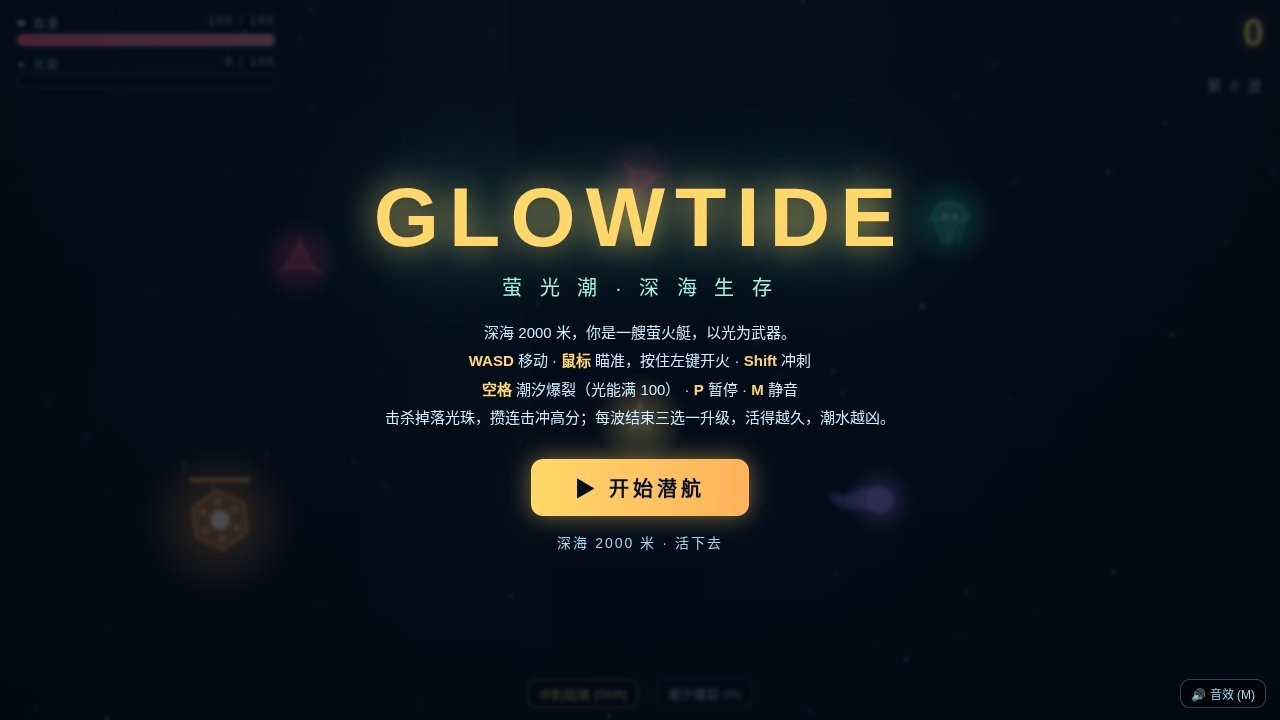
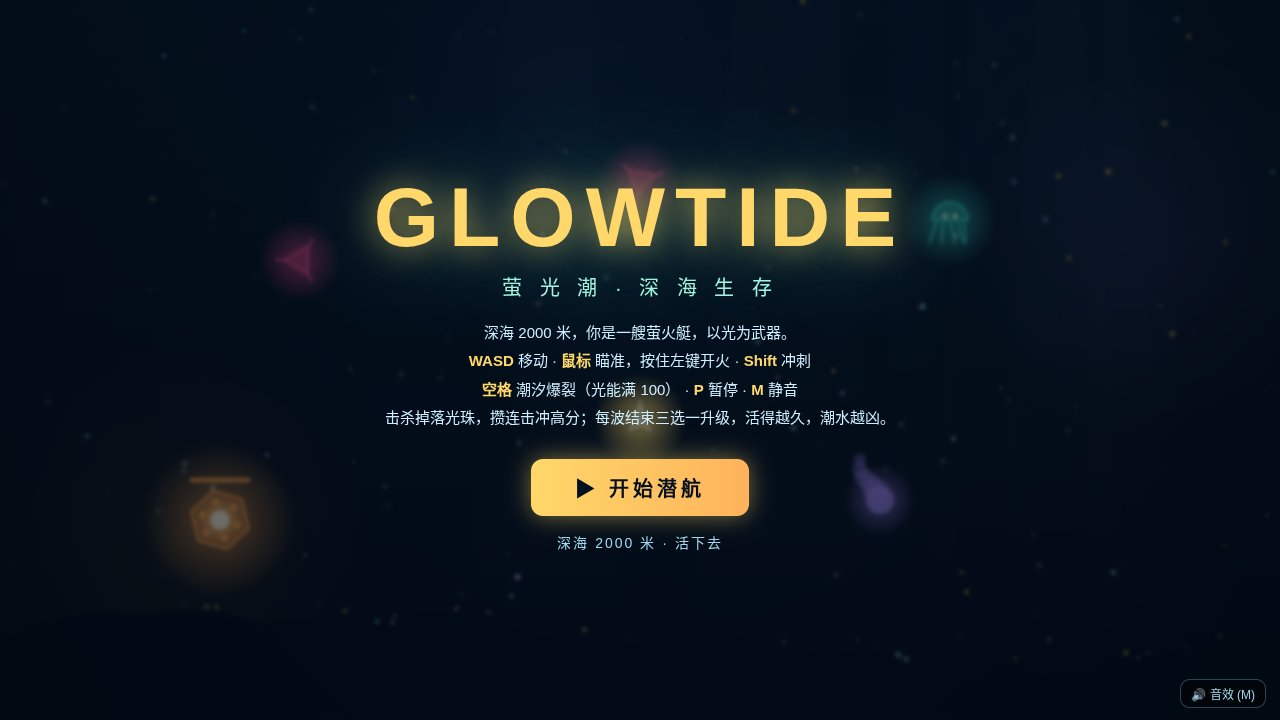
Polish round: richer backdrop, HUD hidden on full screens, punchier combat, faster early waves
- world: 170 motes, 5 pre-rendered bioluminescent blooms, seabed ridge
  with glowing anemones, stronger god-rays, softer vignette
- render: bullet tracers, shockwave rings now filled energy discs
- hud: chrome hidden on title/upgrade/game-over screens (was bleeding
  through the overlays in screenshots); title overlay more transparent
- waves: wave 1 has 8 urchins (was 6), faster spawn pacing, pairs from
  wave 3; orbs give 10 energy (was 8) so the tide burst comes online
  in wave 2; wave-clear gold ring + sparks
- main: live title scene now drifts all 5 enemy kinds (was 3)
- fix floating-text overlap: smaller damage numbers, kill score higher

diff --git a/game/src/world.js b/game/src/world.js
@@ -9,17 +9,58 @@ export class World {
   constructor(rng) {
     this.rng = rng;
     this.motes = [];
-    for (let i = 0; i < 90; i++) {
+    for (let i = 0; i < 170; i++) {
       this.motes.push({
         x: rng.range(0, WORLD_W), y: rng.range(0, WORLD_H),
-        r: rng.range(0.6, 2.4), speed: rng.range(4, 16),
+        r: rng.range(0.6, 3.2), speed: rng.range(4, 16),
         drift: rng.range(-6, 6), phase: rng.range(0, TAU),
         hue: rng.pick(['#7dd8ff', '#9ff5e0', '#ffd76a', '#c9b8ff']),
       });
     }
-    this.rays = [];
+    // distant bioluminescent blooms: huge soft glows drifting far below,
+    // they give the water column depth instead of flat navy.
+    // Each bloom is pre-rendered once to an offscreen sprite (like the
+    // glow sprites in render.js) so frames stay cheap.
+    this.blooms = [];
+    const bloomHues = ['#1d6f8e', '#1a7a6a', '#7a5fb0', '#8e6a1d', '#1d5f8e'];
     for (let i = 0; i < 5; i++) {
-      this.rays.push({ x: rng.range(100, 1180), w: rng.range(40, 110), a: rng.range(0.02, 0.05), phase: rng.range(0, TAU) });
+      const r = rng.range(130, 260);
+      const hue = bloomHues[i % bloomHues.length];
+      const c = document.createElement('canvas');
+      c.width = r * 2; c.height = r * 2;
+      const g = c.getContext('2d');
+      const grad = g.createRadialGradient(r, r, 0, r, r, r);
+      grad.addColorStop(0, hue + '2e');
+      grad.addColorStop(1, hue + '00');
+      g.fillStyle = grad;
+      g.fillRect(0, 0, r * 2, r * 2);
+      this.blooms.push({
+        x: rng.range(80, WORLD_W - 80), y: rng.range(90, WORLD_H - 120),
+        r, speed: rng.range(3, 8),
+        phase: rng.range(0, TAU), hue, sprite: c,
+      });
+    }
+    // seabed ridge: precomputed wavy silhouette along the bottom, with
+    // tiny glowing anemone dots on its crest
+    this.ridge = [];
+    let ry = WORLD_H - rng.range(46, 70);
+    for (let x = -20; x <= WORLD_W + 20; x += 40) {
+      ry += rng.range(-14, 14);
+      ry = Math.max(WORLD_H - 110, Math.min(WORLD_H - 30, ry));
+      this.ridge.push({ x, y: ry });
+    }
+    this.anemones = [];
+    for (let i = 0; i < 26; i++) {
+      const rp = this.ridge[Math.floor(rng.range(0, this.ridge.length))];
+      this.anemones.push({
+        x: rp.x + rng.range(-16, 16), y: rp.y - rng.range(2, 10),
+        r: rng.range(1.2, 2.6), phase: rng.range(0, TAU),
+        hue: rng.pick(['#7df9ff', '#ffd76a', '#ff8fd0', '#9ff5e0']),
+      });
+    }
+    this.rays = [];
+    for (let i = 0; i < 6; i++) {
+      this.rays.push({ x: rng.range(100, 1180), w: rng.range(40, 110), a: rng.range(0.03, 0.06), phase: rng.range(0, TAU) });
     }
     this._bg = null; // cached gradient, built lazily against a canvas
     this._vig = null;
@@ -33,6 +74,11 @@ export class World {
       if (m.x < -4) m.x = WORLD_W + 4;
       if (m.x > WORLD_W + 4) m.x = -4;
     }
+    for (const b of this.blooms) {
+      b.y -= b.speed * dt;
+      b.x += Math.sin(time * 0.2 + b.phase) * 6 * dt;
+      if (b.y < -b.r) { b.y = WORLD_H + b.r; b.x = this.rng.range(80, WORLD_W - 80); }
+    }
   }
 
   draw(ctx, time) {
@@ -44,11 +90,21 @@ export class World {
       this._bg = g;
       const v = ctx.createRadialGradient(640, 360, 260, 640, 360, 780);
       v.addColorStop(0, 'rgba(0,0,0,0)');
-      v.addColorStop(1, 'rgba(0,0,0,0.55)');
+      v.addColorStop(1, 'rgba(0,0,0,0.42)');
       this._vig = v;
     }
     ctx.fillStyle = this._bg;
     ctx.fillRect(0, 0, WORLD_W, WORLD_H);
+    // distant blooms: big soft additive glows so the water has depth
+    ctx.save();
+    ctx.globalCompositeOperation = 'lighter';
+    for (const b of this.blooms) {
+      const pulse = 0.05 + 0.03 * Math.sin(time * 0.4 + b.phase);
+      ctx.globalAlpha = pulse / 0.08;
+      ctx.drawImage(b.sprite, b.x - b.r, b.y - b.r, b.r * 2, b.r * 2);
+    }
+    ctx.restore();
+    ctx.globalAlpha = 1;
     // faint god-rays from the surface
     ctx.save();
     for (const r of this.rays) {
@@ -72,6 +128,25 @@ export class World {
       ctx.fillStyle = m.hue;
       ctx.beginPath(); ctx.arc(m.x, m.y, m.r, 0, TAU); ctx.fill();
     }
+    ctx.globalAlpha = 1;
+    // seabed ridge + glowing anemones along its crest
+    ctx.fillStyle = '#020a16';
+    ctx.beginPath();
+    ctx.moveTo(-20, WORLD_H + 20);
+    ctx.lineTo(-20, this.ridge[0].y);
+    for (const p of this.ridge) ctx.lineTo(p.x, p.y);
+    ctx.lineTo(WORLD_W + 20, this.ridge[this.ridge.length - 1].y);
+    ctx.lineTo(WORLD_W + 20, WORLD_H + 20);
+    ctx.closePath(); ctx.fill();
+    ctx.save();
+    ctx.globalCompositeOperation = 'lighter';
+    for (const a of this.anemones) {
+      const tw = 0.35 + 0.35 * Math.sin(time * 1.8 + a.phase);
+      ctx.globalAlpha = tw;
+      ctx.fillStyle = a.hue;
+      ctx.beginPath(); ctx.arc(a.x, a.y, a.r, 0, TAU); ctx.fill();
+    }
+    ctx.restore();
     ctx.globalAlpha = 1;
     // vignette
     ctx.fillStyle = this._vig;

diff --git a/game/index.html b/game/index.html
@@ -29,6 +29,7 @@
   #banner { top: 34%; left: 50%; transform: translate(-50%, -50%) scale(.9); font-size: 64px; font-weight: 900; letter-spacing: 14px; color: #eafcff; text-shadow: 0 0 30px rgba(125,249,255,.8); opacity: 0; transition: opacity .3s, transform .3s; }
   #banner.show { opacity: 1; transform: translate(-50%, -50%) scale(1); }
   .screen { position: absolute; inset: 0; display: flex; flex-direction: column; align-items: center; justify-content: center; text-align: center; background: rgba(2, 10, 22, .72); backdrop-filter: blur(2px); z-index: 5; }
+  #title-screen { background: rgba(2, 10, 22, .58); }
   .hidden { display: none !important; }
   h1.title { font-size: 84px; font-weight: 900; letter-spacing: 10px; color: #ffd76a; text-shadow: 0 0 34px rgba(255,215,106,.75), 0 0 90px rgba(55,224,200,.5); }
   .subtitle { font-size: 20px; color: #9ff5e0; letter-spacing: 6px; margin: 6px 0 18px; }
@@ -39,7 +40,7 @@
   .btn.ghost { background: transparent; color: #9fd8ef; border: 1px solid rgba(140,220,255,.5); box-shadow: none; font-size: 15px; padding: 10px 26px; }
   #best-score { margin-top: 16px; font-size: 14px; color: #9fd8ef; letter-spacing: 2px; }
   #upgrade-cards { display: flex; gap: 18px; margin-top: 22px; }
-  .card { pointer-events: auto; cursor: pointer; width: 210px; padding: 22px 16px; background: rgba(8, 34, 56, .9); border: 1px solid rgba(125,249,255,.45); border-radius: 14px; transition: transform .12s, border-color .12s; }
+  .card { pointer-events: auto; cursor: pointer; width: 210px; padding: 22px 16px; background: rgba(8, 34, 56, .9); border: 1px solid rgba(125,249,255,.45); border-radius: 14px; box-shadow: 0 0 22px rgba(55,224,200,.18); transition: transform .12s, border-color .12s; }
   .card:hover { transform: translateY(-6px); border-color: #ffd76a; }
   .card-key { font-size: 12px; color: #7df9ff; border: 1px solid #7df9ff; border-radius: 6px; display: inline-block; padding: 2px 8px; margin-bottom: 10px; }
   .card-name { font-size: 20px; font-weight: 800; color: #ffd76a; margin-bottom: 8px; }

diff --git a/game/src/render.js b/game/src/render.js
@@ -66,9 +66,15 @@ export function render(ctx, S, world) {
   const p = S.player;
   if (p && S.state !== 'over') drawPlayer(ctx, p, S.time);
 
-  // bullets
+  // bullets: tracer streak + hot core so fire reads at a glance
   for (const b of S.bullets) {
-    drawGlow(ctx, b.x, b.y, 14, '#ffe9a8', 0.9);
+    ctx.strokeStyle = 'rgba(255,233,168,0.55)';
+    ctx.lineWidth = 3;
+    ctx.beginPath();
+    ctx.moveTo(b.x - b.vx * 0.022, b.y - b.vy * 0.022);
+    ctx.lineTo(b.x, b.y);
+    ctx.stroke();
+    drawGlow(ctx, b.x, b.y, 16, '#ffe9a8', 0.9);
     ctx.fillStyle = '#fff6cf';
     ctx.beginPath(); ctx.arc(b.x, b.y, b.r, 0, TAU); ctx.fill();
   }
@@ -86,9 +92,18 @@ export function render(ctx, S, world) {
   }
   ctx.globalAlpha = 1;
 
-  // shockwave rings
+  // shockwave rings: a soft filled energy disc plus the bright rim,
+  // so a burst reads as a shockwave, not an empty wire circle
   for (const r of S.rings) {
-    ctx.globalAlpha = Math.max(0, r.life / r.maxLife) * 0.9;
+    const fade = Math.max(0, r.life / r.maxLife);
+    const g = ctx.createRadialGradient(r.x, r.y, 0, r.x, r.y, Math.max(1, r.r));
+    g.addColorStop(0, r.color + '30');
+    g.addColorStop(0.75, r.color + '14');
+    g.addColorStop(1, r.color + '00');
+    ctx.globalAlpha = fade;
+    ctx.fillStyle = g;
+    ctx.beginPath(); ctx.arc(r.x, r.y, Math.max(1, r.r), 0, TAU); ctx.fill();
+    ctx.globalAlpha = fade * 0.9;
     ctx.strokeStyle = r.color;
     ctx.lineWidth = 4;
     ctx.beginPath(); ctx.arc(r.x, r.y, r.r, 0, TAU); ctx.stroke();

diff --git a/game/src/entities.js b/game/src/entities.js
@@ -107,7 +107,7 @@ export function hurtEnemy(S, e, dmg, angle) {
   e.hp -= dmg;
   e.flash = 0.12;
   S.stats.hits++;
-  addText(S, e.x + S.rng.range(-8, 8), e.y - e.r, String(Math.round(dmg)), '#ffe9a8', 14);
+  addText(S, e.x + S.rng.range(-8, 8), e.y - e.r, String(Math.round(dmg)), '#ffe9a8', 12);
   spawnExplosion(S, e.x, e.y, e.color, 3, 90);
   if (e.hp <= 0) killEnemy(S, e, angle);
 }
@@ -122,7 +122,7 @@ export function killEnemy(S, e, angle) {
   if (S.combo > S.maxCombo) S.maxCombo = S.combo;
   const gained = e.score * comboMult(S);
   S.score += gained;
-  addText(S, e.x, e.y - e.r - 8, '+' + gained, '#ffd76a', 17);
+  addText(S, e.x, e.y - e.r - 26, '+' + gained, '#ffd76a', 18);
   spawnExplosion(S, e.x, e.y, e.color, e.elite ? 26 : 14, e.elite ? 240 : 170);
   addRing(S, e.x, e.y, e.color, e.r + 26);
   dropOrbs(S, e.x, e.y, e.orbs);
@@ -362,7 +362,7 @@ export function updateOrbs(S, dt, sound) {
       }
       if (d < p.r + o.r + 4) {
         S.orbs.splice(i, 1);
-        p.energy = clamp(p.energy + 8 * p.lumenGain, 0, 100);
+        p.energy = clamp(p.energy + 10 * p.lumenGain, 0, 100);
         if (sound) sound.pickup(S.combo);
         continue;
       }

diff --git a/game/src/waves.js b/game/src/waves.js
@@ -23,7 +23,7 @@ export function buildWave(wave) {
   const push = (type, count, elite = false) => {
     for (let i = 0; i < count; i++) list.push({ type, elite });
   };
-  const urchins = 6 + (wave - 1) * 3;
+  const urchins = 8 + (wave - 1) * 3;
   push('urchin', urchins);
   if (wave >= 2) push('jelly', 1 + Math.floor(wave / 2));
   if (wave >= 3) push('eel', 1 + Math.floor((wave - 1) / 2));
@@ -54,13 +54,13 @@ export function updateWaves(S, dt) {
   if (S.spawnQueue.length > 0) {
     S.spawnTimer -= dt;
     if (S.spawnTimer <= 0) {
-      // spawn in small bursts; later waves come faster
-      const burst = S.wave >= 4 ? 2 : 1;
+      // spawn in small bursts; later waves come faster and in pairs
+      const burst = S.wave >= 3 ? 2 : 1;
       for (let i = 0; i < burst && S.spawnQueue.length > 0; i++) {
         const s = S.spawnQueue.shift();
         spawnAtEdge(S, s.type, s.elite);
       }
-      S.spawnTimer = Math.max(0.35, 1.1 - S.wave * 0.06);
+      S.spawnTimer = Math.max(0.4, 0.95 - S.wave * 0.07);
     }
   } else if (S.enemies.length === 0) {
     S.waveActive = false;

diff --git a/game/src/hud.js b/game/src/hud.js
@@ -21,7 +21,16 @@ export class Hud {
     this.endEl = doc.getElementById('end-screen');
     this.pauseEl = doc.getElementById('pause-screen');
     this.bestEl = doc.getElementById('best-score');
+    this.chromeEls = ['hud-tl', 'hud-tr', 'hud-bc', 'banner']
+      .map((id) => doc.getElementById(id)).filter(Boolean);
     this._bannerText = '';
+  }
+
+  // Full-screen overlays (title / upgrade / game over) sit on a dimmed
+  // backdrop; the HUD bars bleeding through behind them looked sloppy in
+  // screenshots, so chrome hides whenever such a screen is up.
+  setChromeVisible(v) {
+    for (const el of this.chromeEls) el.classList.toggle('hidden', !v);
   }
 
   update(S) {
@@ -58,6 +67,9 @@ export class Hud {
     for (const s of [this.titleEl, this.upgradeEl, this.endEl, this.pauseEl]) {
       if (s) s.classList.toggle('hidden', s !== el);
     }
+    // pause keeps the HUD (the run is still live underneath); the other
+    // full screens hide it
+    this.setChromeVisible(!el || el === this.pauseEl);
   }
   hideScreens() { this.showOnly(null); }
 

diff --git a/game/src/main.js b/game/src/main.js
@@ -86,6 +86,9 @@ function step(dt) {
   const res = updateWaves(S, dt);
   if (res === 'clear') {
     S.player.hp = clamp(S.player.hp + 20, 0, S.player.maxHp);
+    // wave-clear celebration: a gold ring + sparks on the player
+    addRing(S, S.player.x, S.player.y, '#ffd76a', 200);
+    spawnExplosion(S, S.player.x, S.player.y, '#ffd76a', 18, 220);
     upgradeChoices = pickUpgrades(S.rng, 3);
     S.state = 'upgrade';
     sound.waveClear();
@@ -216,6 +219,8 @@ if (SHOT) {
   spawnEnemy(S, 'urchin', false, 300, 260);
   spawnEnemy(S, 'jelly', false, 950, 220);
   spawnEnemy(S, 'eel', false, 880, 500);
+  spawnEnemy(S, 'mother', false, 220, 520);
+  spawnEnemy(S, 'urchin', false, 640, 180);
   hud.showTitle(S.best);
 }
 
